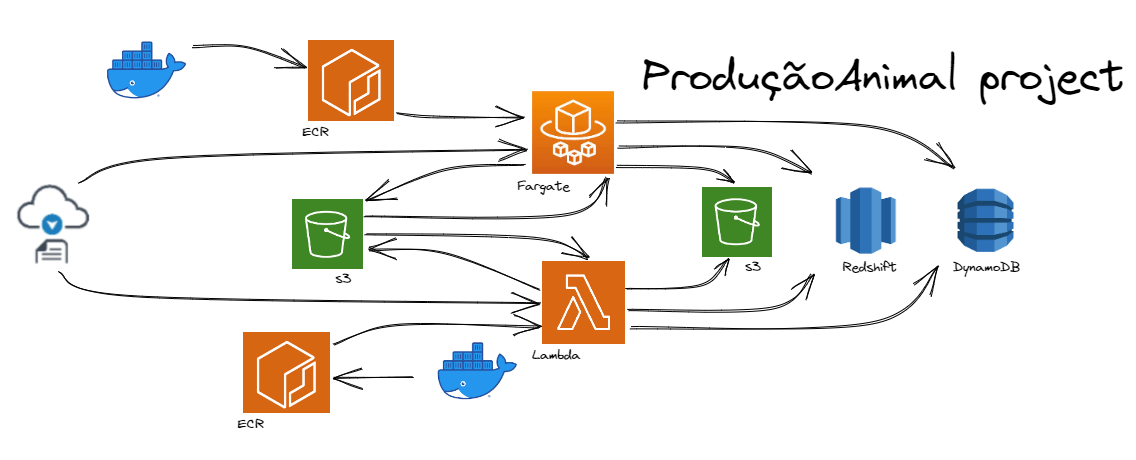
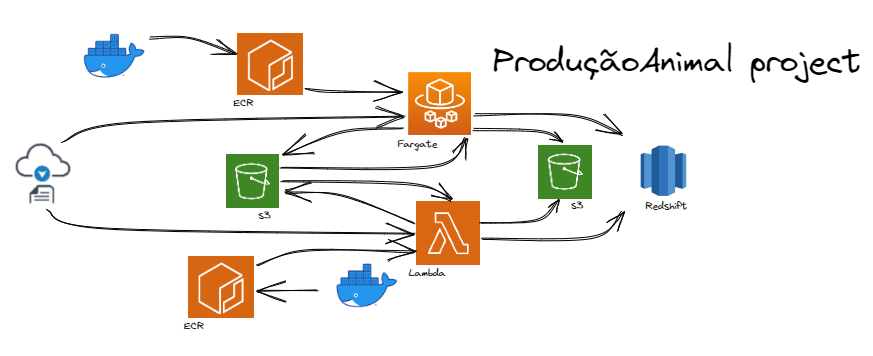
inclui rotina redshift
inclui rotina redshift

diff --git a/PApy/02_le_csv_ingere_dados_lapidados.py b/PApy/02_le_csv_ingere_dados_lapidados.py
@@ -62,10 +62,6 @@ def le_arqcsv_grava_dados_lapidados(
     pr.pandas_to_redshift(data_frame = retorno_df,
                           redshift_table_name = 'tb_abate')
 
-    # ******************** INCLUI DF NA TABELA TB_ABATE DO DYNAMODB
-
-
-    
     return nome_arquivocsv
 
 def SalvaUltimoARQ(pathArquivo, ultimoARQ):
@@ -154,10 +150,7 @@ def lambda_handler(event, context):
     sql_cursor.close
     conn.commit
     conn.close
-
-    # ******************** CONECTA O dynamoDB
     
-
     # ******************** MONTA O NOME DO ARQUIVO CSV DO ULTIMO TRIMESTRE
     if trimestre == 4:
         ano= ano +1    

diff --git a/README.md b/README.md
@@ -1,4 +1,4 @@
 # Producao_Animal
 O projeto Produção Animal baixa os arquivos abate_XXXXXX.xls de Pesquisa Trimestral do Abate de Animais, que são disponibilizados na página de download da agricultura e pecuária do IBGE 
 (https://www.ibge.gov.br/estatisticas/economicas/agricultura-e-pecuaria/9203-pesquisas-trimestrais-do-abate-de-animais.html?=&t=downloads), 
-transforma e grava os dados de abate em arquivo parquet, no banco de dados estruturado lake house aws redshift e no banco de dados noSQL dynamoDB, utilizando tecnologia de contêiner Docker para o workload.
+transforma e grava os dados de abate em arquivo json e no banco de dados estruturado lake house aws redshift.
